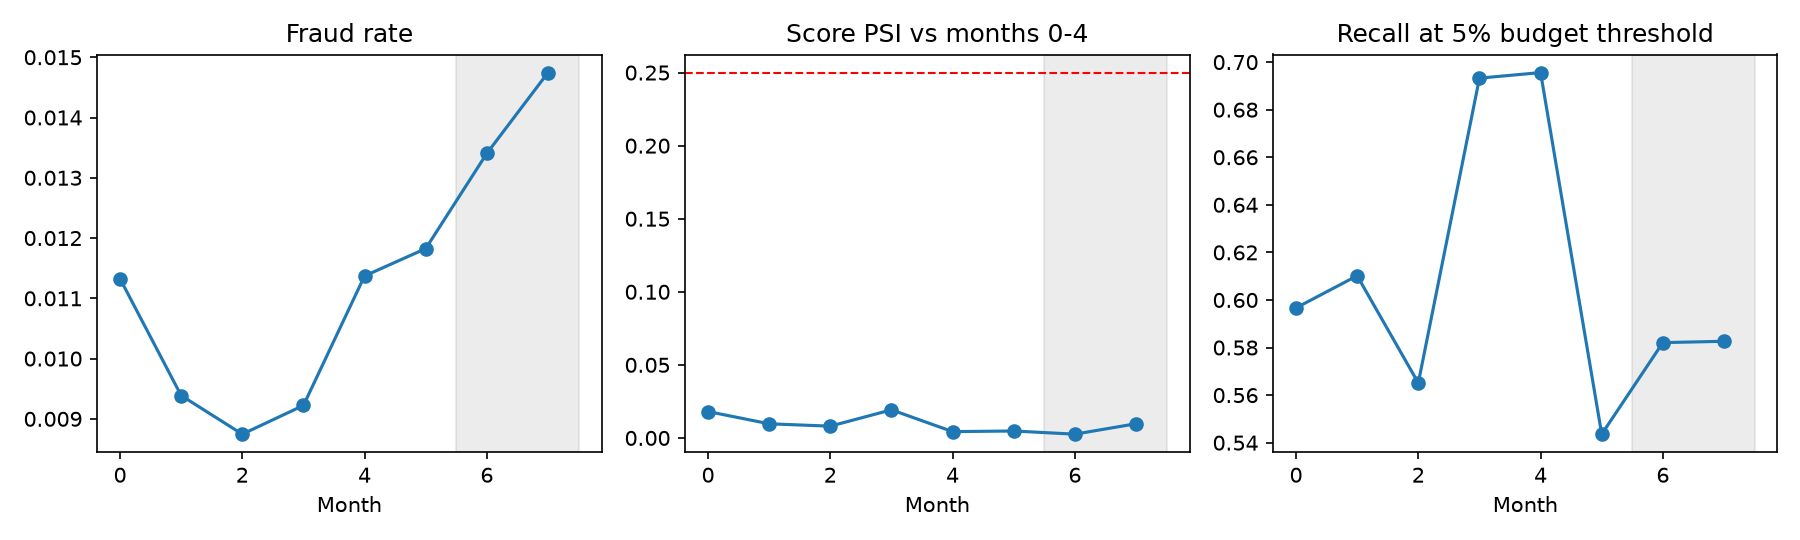
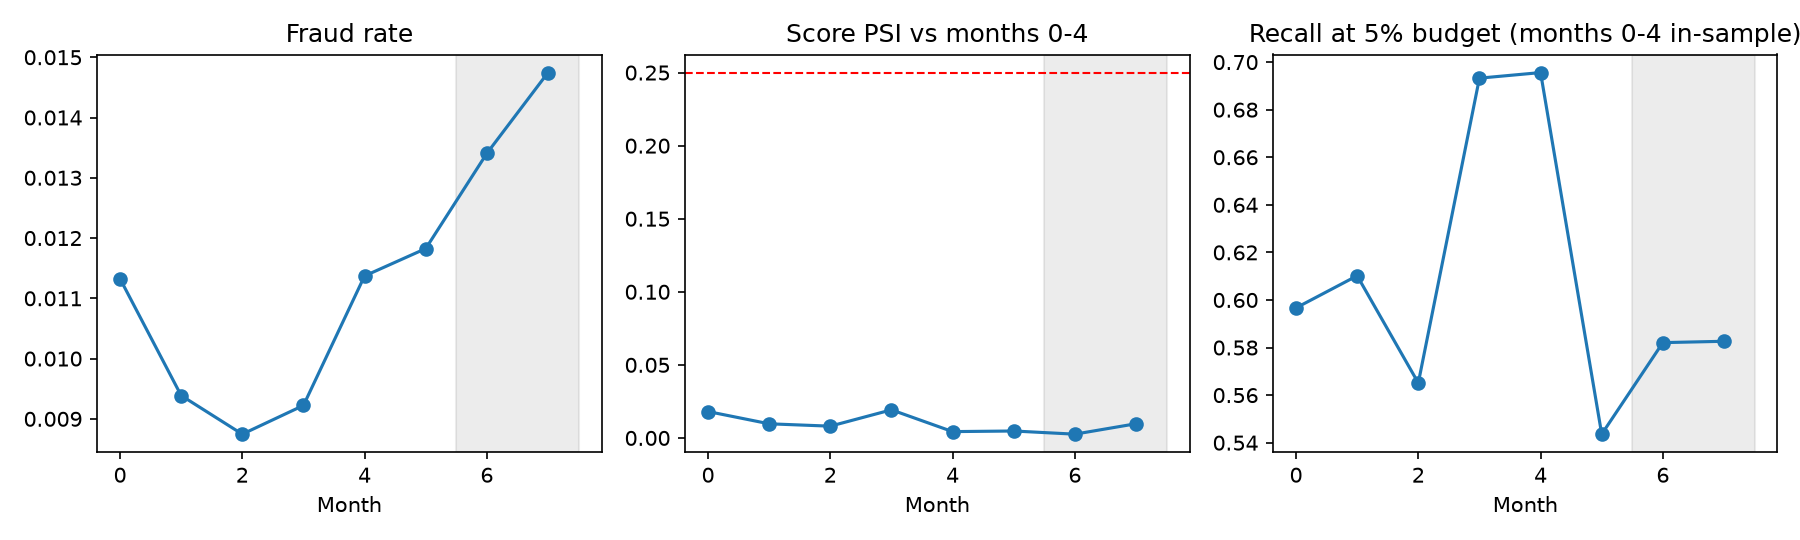
Add results from full run

Changed region(s): [[0.6844, 0.0296, 1.0, 0.0889]]

diff --git a/src/fraud/plots.py b/src/fraud/plots.py
@@ -92,7 +92,7 @@ def drift_plot(r, arrays, folder) -> Path:
     d = pd.DataFrame(r["drift"]["by_month"])
     fig, axes = plt.subplots(1, 3, figsize=(12, 3.6))
     for ax, col, title in zip(axes, ("fraud_rate", "psi_score", "recall"),
-                              ("Fraud rate", "Score PSI vs months 0-4", "Recall at 5% budget threshold"),
+                              ("Fraud rate", "Score PSI vs months 0-4", "Recall at 5% budget (months 0-4 in-sample)"),
                               strict=True):
         ax.plot(d["month"], d[col], marker="o")
         ax.axvspan(5.5, 7.5, color="grey", alpha=0.15)

diff --git a/README.md b/README.md
@@ -52,5 +52,7 @@ See [the model card](reports/model_card.md) for limitations and monitoring rules
 conda env create -f environment.yml && conda activate fraud-detection
 make all      # needs a Kaggle API token; downloads the data, tunes, evaluates and writes reports/
 ```
+The hyperparameter search (8 XGBoost configurations x 2 rolling folds, twice, on ~600k rows) took about 8 hours on a
+laptop; evaluation and reports take a few minutes.
 
 License: MIT (code). Data: CC BY-NC-SA 4.0 (Feedzai).
